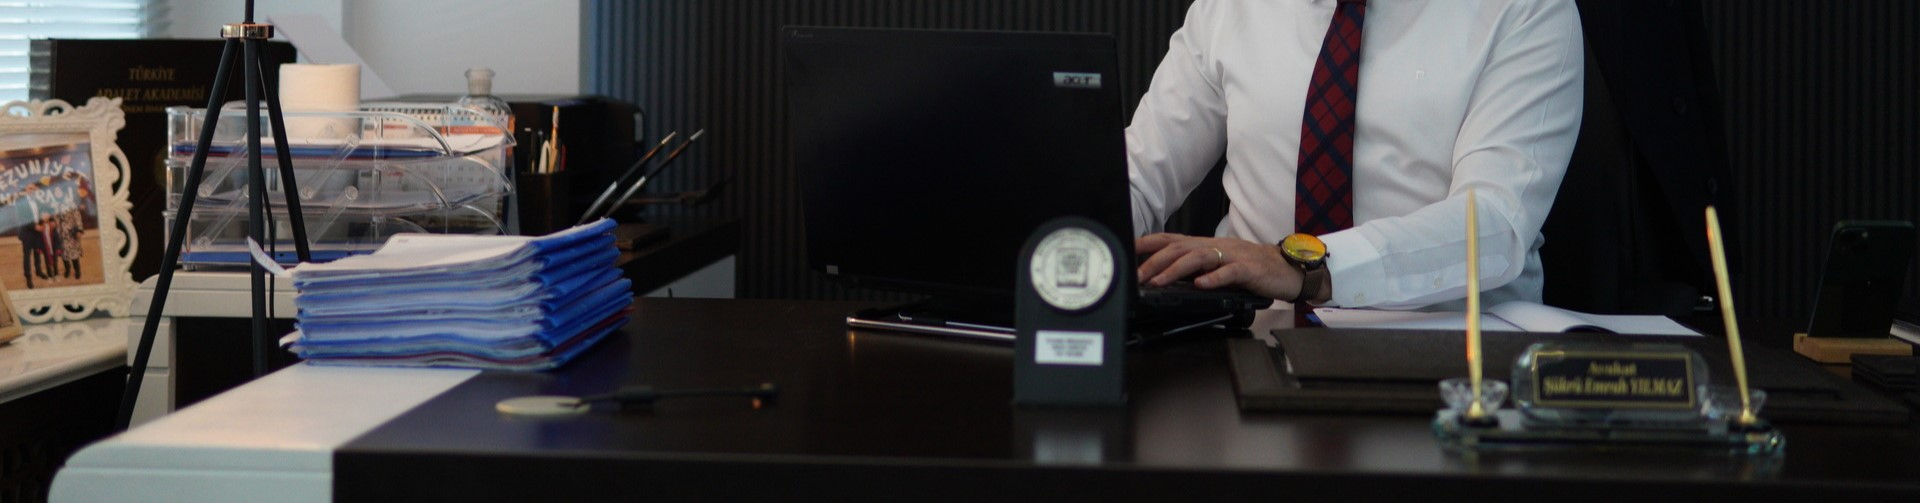
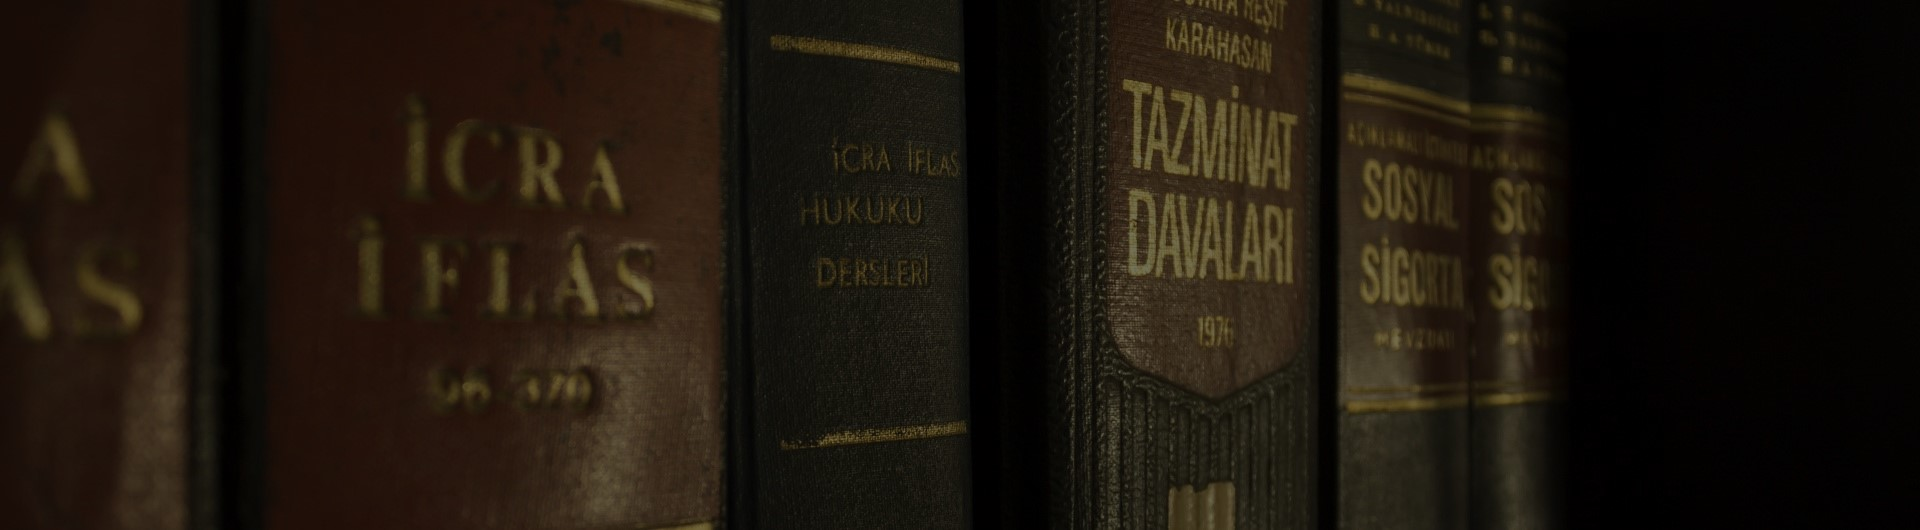
finalize again

diff --git a/styles.css b/styles.css
@@ -34,13 +34,13 @@ body .banner-area .banner-text{
     letter-spacing: 2px;
 }
 body.kararlar .banner-area{
-    background-image: url(image/banner-img5.jpg);
+    background-image: url(image/banner-img4.jpg);
 }
 body.hakkinda .banner-area{
-    background-image: url(image/banner-img3.jpg);
+    background-image: url(image/banner-img2.jpg);
 }
 body.calisma-alanlari .banner-area{
-    background-image: url(image/banner-img44.jpg);
+    background-image: url(image/banner-img3.jpg);
 }
 body.hakkinda .banner-area .banner-text{
     letter-spacing: 2px;
@@ -51,7 +51,7 @@ body.calisma-alanlari .banner-area .banner-text{
 }
 
 body.iletisim .banner-area{
-    background-image: url(image/banner-img2.PNG);
+    background-image: url(image/banner-img5.jpg);
 }
 .banner-area{
     position: relative;

diff --git a/hakkinda.html b/hakkinda.html
@@ -103,6 +103,6 @@
       
     </footer>
   
-  
+    <script src="app.js"></script>
 </body>
 </html>

diff --git a/iletisim.html b/iletisim.html
@@ -97,6 +97,6 @@
       
     </footer>
 
-  
+    <script src="app.js"></script>
 </body>
 </html>

diff --git a/calisma-alanlari.html b/calisma-alanlari.html
@@ -166,6 +166,6 @@
   
 
 
-  
+      <script src="app.js"></script>
 </body>
 </html>
